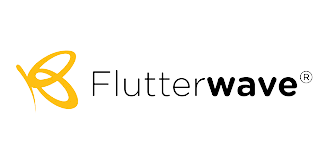
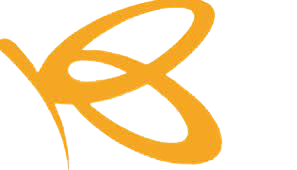
Updated frameworks

diff --git a/index.html b/index.html
@@ -543,6 +543,11 @@
                   style="height: 35px"
                 />
                 <img
+                  src="./assets/img/frameworks/flutterwave.png"
+                  alt="Flutterwave"
+                  style="height: 35px"
+                />
+                <img
                   src="./assets/img/frameworks/postman.png"
                   alt="postman"
                   style="height: 35px"
